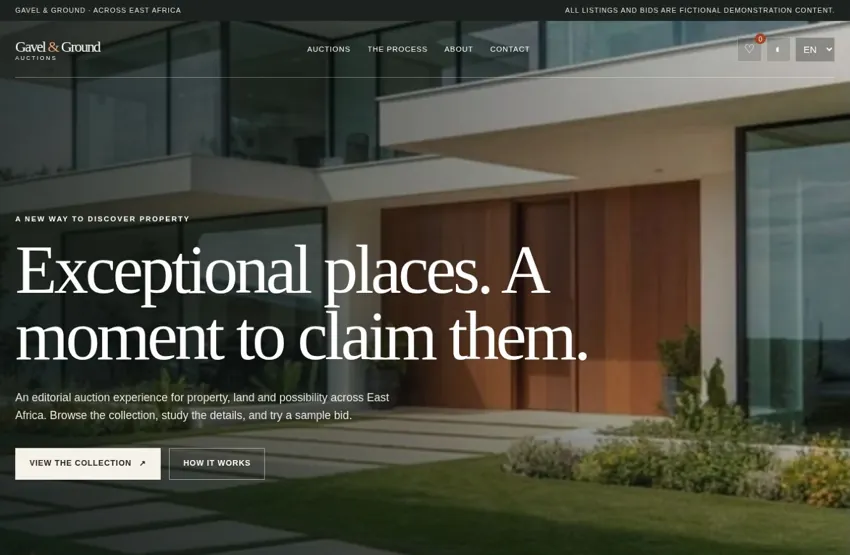
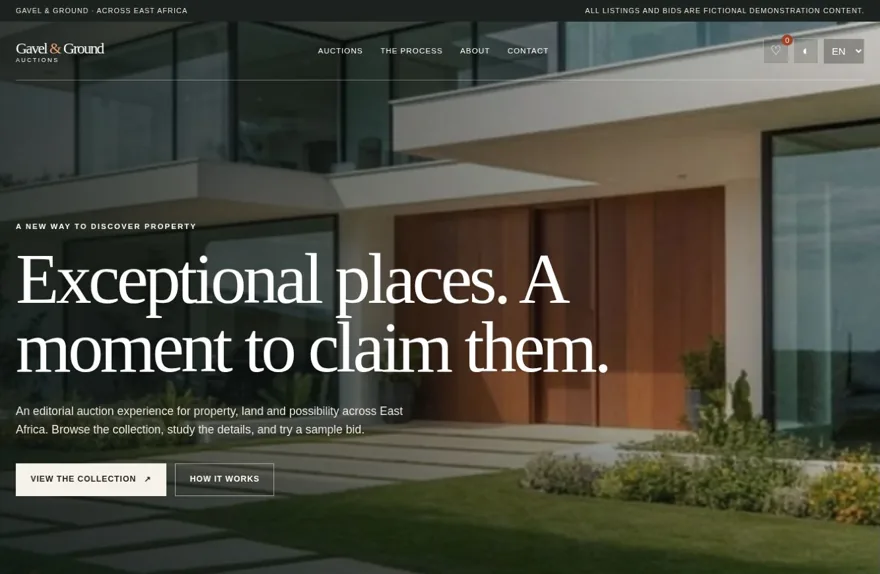
Refine V8 and V9 collection screenshots

diff --git a/index.html b/index.html
@@ -15,7 +15,7 @@
     .searchdock{position:relative;margin-top:-52px;z-index:5}.searchbox{background:var(--panel);border:1px solid var(--line);box-shadow:var(--shadow);display:grid;grid-template-columns:1.3fr repeat(3,1fr) auto;align-items:end;padding:16px;border-radius:var(--radius)}.field{padding:10px 18px;border-right:1px solid var(--line)}.field label{font-size:.68rem;text-transform:uppercase;letter-spacing:.12em;color:var(--muted);font-weight:800;display:block;margin-bottom:5px}.field input,.field select{background:none;border:0;color:var(--ink);width:100%;outline:0}.field select option{background:var(--panel)}.searchbtn{border:0;background:var(--blue);color:white;padding:20px 24px;border-radius:14px;font-weight:800;cursor:pointer}
     section{padding:120px 0}.intro{display:grid;grid-template-columns:.72fr 1.28fr;gap:80px}.intro h2,.section-head h2{font:500 clamp(2.6rem,5vw,5.4rem)/.98 Georgia,serif;letter-spacing:-.045em;margin:0}.intro-copy{border-top:1px solid var(--line);padding-top:24px}.intro-copy p{font-size:1.17rem;color:var(--muted);max-width:650px}.link{display:inline-flex;gap:13px;align-items:center;font-weight:800;margin-top:22px}.link i{width:39px;height:39px;background:var(--lime);color:#07101f;display:grid;place-items:center;border-radius:50%;font-style:normal}
     .modes{display:grid;grid-template-columns:repeat(4,1fr);margin-top:75px;border:1px solid var(--line)}.mode{min-height:265px;padding:30px;border-right:1px solid var(--line);position:relative;transition:.25s;background:var(--panel)}.mode:last-child{border:0}.mode:hover{background:var(--blue);color:white;transform:translateY(-8px)}.mode b{font-size:.78rem;color:var(--muted)}.mode h3{font:500 1.65rem/1.1 Georgia,serif;margin-top:60px}.mode .arrow{position:absolute;bottom:28px;right:28px;font-size:1.5rem}.mode svg{width:28px;height:28px;stroke:var(--lime);fill:none;stroke-width:1.5}
-    .collection{padding-top:40px}.collection-intro{display:grid;grid-template-columns:1fr 1fr;gap:70px;align-items:end;margin-bottom:48px}.collection-intro p{color:var(--muted);max-width:560px}.template-filter{display:flex;gap:8px;flex-wrap:wrap;margin:28px 0}.filter-btn{border:1px solid var(--line);background:transparent;color:var(--muted);padding:10px 15px;font-size:.78rem;font-weight:800;cursor:pointer}.filter-btn.active{background:var(--ink);color:var(--bg)}.template-grid{display:grid;grid-template-columns:repeat(12,1fr);gap:18px}.template-card{grid-column:span 4;background:var(--panel);border:1px solid var(--line);min-height:420px;display:flex;flex-direction:column;transition:.25s}.template-card:hover{transform:translateY(-7px);box-shadow:var(--shadow)}.template-card.wide{grid-column:span 8}.template-cover{height:250px;padding:24px;display:flex;flex-direction:column;justify-content:space-between;overflow:hidden;position:relative;color:white;background-size:cover;background-position:center}.template-cover::before{content:'';position:absolute;inset:0;background:linear-gradient(180deg,#07101f40 15%,#07101fd9 100%)}.template-cover::after{content:'';position:absolute;width:180px;height:180px;border:1px solid #ffffff40;border-radius:50%;right:-35px;bottom:-90px}.cover-a{background-image:url('preview-aurelia.webp')}.cover-b{background-image:url('preview-nestgrid.webp')}.cover-c{background-image:url('preview-nestra.webp')}.cover-d{background-image:url('preview-solara.webp')}.cover-solenne{background-image:url('preview-solenne.webp')}.cover-e{background-image:url('preview-atlas.webp')}.template-cover.cover-e strong{font:800 1.2rem/1.1 Arial,Helvetica,sans-serif;letter-spacing:.14em;text-transform:uppercase;text-shadow:0 2px 10px #000}.cover-f{background-image:url('preview-nia-kato.webp')}.cover-h{background-image:url('preview-terra-atlas.webp')}.cover-i{background-image:url('preview-gavel-ground.webp')}.cover-g{background-image:linear-gradient(135deg,#17191f,#4d5b70)}.template-no{font-size:.68rem;letter-spacing:.15em;font-weight:900;position:relative;z-index:1}.template-cover strong{font:500 clamp(2rem,4vw,4rem)/.9 Georgia,serif;letter-spacing:-.04em;position:relative;z-index:1;text-shadow:0 2px 30px #000}.template-body{padding:24px;display:flex;flex-direction:column;flex:1}.status{font-size:.68rem;font-weight:900;letter-spacing:.12em;text-transform:uppercase;color:var(--blue)}.status.dev{color:var(--muted)}.template-body h3{font:500 1.55rem/1.1 Georgia,serif;margin:13px 0 9px}.template-body p{color:var(--muted);font-size:.9rem;margin:0 0 24px}.template-action{margin-top:auto;border:0;background:none;padding:0;text-align:left;font-weight:900;cursor:pointer}.template-action[disabled]{color:var(--muted);cursor:not-allowed}.template-card.hidden{display:none}
+    .collection{padding-top:40px}.collection-intro{display:grid;grid-template-columns:1fr 1fr;gap:70px;align-items:end;margin-bottom:48px}.collection-intro p{color:var(--muted);max-width:560px}.template-filter{display:flex;gap:8px;flex-wrap:wrap;margin:28px 0}.filter-btn{border:1px solid var(--line);background:transparent;color:var(--muted);padding:10px 15px;font-size:.78rem;font-weight:800;cursor:pointer}.filter-btn.active{background:var(--ink);color:var(--bg)}.template-grid{display:grid;grid-template-columns:repeat(12,1fr);gap:18px}.template-card{grid-column:span 4;background:var(--panel);border:1px solid var(--line);min-height:420px;display:flex;flex-direction:column;transition:.25s}.template-card:hover{transform:translateY(-7px);box-shadow:var(--shadow)}.template-card.wide{grid-column:span 8}.template-cover{height:250px;padding:24px;display:flex;flex-direction:column;justify-content:space-between;overflow:hidden;position:relative;color:white;background-size:cover;background-position:center}.template-cover::before{content:'';position:absolute;inset:0;background:linear-gradient(180deg,#07101f40 15%,#07101fd9 100%)}.template-cover::after{content:'';position:absolute;width:180px;height:180px;border:1px solid #ffffff40;border-radius:50%;right:-35px;bottom:-90px}.cover-a{background-image:url('preview-aurelia.webp')}.cover-b{background-image:url('preview-nestgrid.webp')}.cover-c{background-image:url('preview-nestra.webp')}.cover-d{background-image:url('preview-solara.webp')}.cover-solenne{background-image:url('preview-solenne.webp')}.cover-e{background-image:url('preview-atlas.webp')}.template-cover.cover-e strong{font:800 1.2rem/1.1 Arial,Helvetica,sans-serif;letter-spacing:.14em;text-transform:uppercase;text-shadow:0 2px 10px #000}.cover-f{background-image:url('preview-nia-kato.webp')}.cover-h strong,.cover-i strong{display:none}.cover-h::before,.cover-i::before{background:linear-gradient(180deg,#07101f1a,#07101f67)}.cover-h{background-image:url('preview-terra-atlas.webp')}.cover-i{background-image:url('preview-gavel-ground.webp')}.cover-g{background-image:linear-gradient(135deg,#17191f,#4d5b70)}.template-no{font-size:.68rem;letter-spacing:.15em;font-weight:900;position:relative;z-index:1}.template-cover strong{font:500 clamp(2rem,4vw,4rem)/.9 Georgia,serif;letter-spacing:-.04em;position:relative;z-index:1;text-shadow:0 2px 30px #000}.template-body{padding:24px;display:flex;flex-direction:column;flex:1}.status{font-size:.68rem;font-weight:900;letter-spacing:.12em;text-transform:uppercase;color:var(--blue)}.status.dev{color:var(--muted)}.template-body h3{font:500 1.55rem/1.1 Georgia,serif;margin:13px 0 9px}.template-body p{color:var(--muted);font-size:.9rem;margin:0 0 24px}.template-action{margin-top:auto;border:0;background:none;padding:0;text-align:left;font-weight:900;cursor:pointer}.template-action[disabled]{color:var(--muted);cursor:not-allowed}.template-card.hidden{display:none}
     .featured{background:var(--stone);color:#0c1728}.section-head{display:flex;align-items:end;justify-content:space-between;gap:30px}.section-head p{max-width:420px;color:#515d6d}.property-stage{display:grid;grid-template-columns:1.35fr .65fr;margin-top:55px;min-height:570px}.property-image{background:linear-gradient(180deg,transparent 45%,#07101fcc),url('axis-hero.webp') center/cover;position:relative}.property-badge{position:absolute;top:24px;left:24px;background:#fff;color:#07101f;padding:9px 13px;font-size:.7rem;font-weight:900;text-transform:uppercase;letter-spacing:.1em}.property-caption{position:absolute;left:30px;bottom:30px;color:#fff}.property-caption h3{font:500 clamp(2rem,4vw,4rem)/1 Georgia,serif;margin:7px 0}.property-card{background:#0b1729;color:white;padding:46px;display:flex;flex-direction:column}.property-card .price{font:500 2.3rem Georgia,serif;margin:20px 0}.property-card p{color:#aebbd0}.facts{display:grid;grid-template-columns:repeat(2,1fr);gap:20px;margin:25px 0 auto}.fact{border-top:1px solid #ffffff29;padding-top:10px}.fact b{font-size:1.25rem}.fact small{display:block;color:#8392a9}.property-card button{border:0;background:var(--lime);color:#07101f;padding:17px;font-weight:900;cursor:pointer}
     .journey{padding-bottom:30px}.journey-grid{display:grid;grid-template-columns:.72fr 1.28fr;gap:80px}.journey-tabs{display:grid;gap:8px;margin-top:35px}.journey-tab{border:1px solid var(--line);background:transparent;color:var(--muted);padding:17px 20px;text-align:left;font-weight:800;cursor:pointer;transition:.2s}.journey-tab.active{background:var(--lime);border-color:var(--lime);color:#07101f}.journey-panel{background:var(--panel);border:1px solid var(--line);padding:50px;min-height:420px;display:flex;flex-direction:column;justify-content:space-between}.journey-panel .index{font:500 5rem/1 Georgia,serif;color:var(--line)}.journey-panel h3{font:500 clamp(2rem,4vw,4.2rem)/1 Georgia,serif;margin:12px 0}.journey-panel p{color:var(--muted);max-width:620px;font-size:1.08rem}.journey-steps{display:grid;grid-template-columns:repeat(3,1fr);gap:12px;margin-top:35px}.journey-steps span{border-top:1px solid var(--line);padding-top:11px;font-size:.78rem;font-weight:800}
     .proof{display:grid;grid-template-columns:1fr 1fr;gap:90px;align-items:center}.quote{font:500 clamp(2rem,4vw,3.8rem)/1.1 Georgia,serif;letter-spacing:-.03em}.quote::before{content:'“';color:var(--lime);display:block;font-size:6rem;height:65px}.stats{display:grid;grid-template-columns:repeat(2,1fr);border:1px solid var(--line)}.stat{padding:38px;border-right:1px solid var(--line);border-bottom:1px solid var(--line)}.stat:nth-child(even){border-right:0}.stat:nth-child(n+3){border-bottom:0}.stat b{font:500 2.8rem Georgia,serif}.stat span{display:block;color:var(--muted);margin-top:5px}
